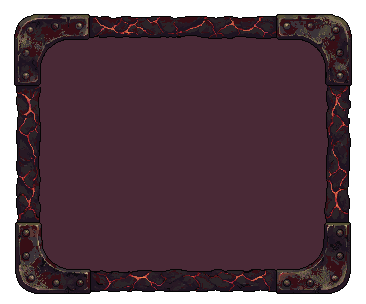
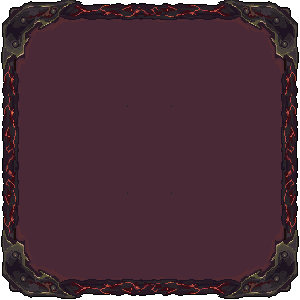
Shroud hides an enemy for real; more call-site text localized; Ashhowl board and card back art
Ash Cloud skips dead cards and bone piles, and hiding a card stops its flip so
the face cannot come back. Floaters, damage labels, the loading bar, the killer
name and merge rarity note go through i18n.

Changed region(s): [[0.0, 0.0, 1.0, 1.0]]

diff --git a/src/i18n/i18n.js b/src/i18n/i18n.js
@@ -3303,6 +3303,100 @@ Object.assign(STRINGS.es, { "ui.carnival.trayHint": "Arrastra una baratija a tu 
 Object.assign(STRINGS.fr, { "ui.carnival.trayHint": "Glissez un bibelot dans votre sac   ·   1 pièce chacun", "ui.carnival.nothingAffordable": "Rien ici n’est dans vos moyens." });
 Object.assign(STRINGS.ru, { "ui.carnival.trayHint": "Перетащите безделушку в сумку   ·   1 монета за штуку", "ui.carnival.nothingAffordable": "Здесь вам ничего не по карману." });
 
+// More text that was English at its call site: floaters, damage labels, the loading bar, names
+// and choice buttons. Found with tools/audit-hardcoded-text.mjs and the code sweep.
+const CALL_SITE_TEXT_2 = {
+    en: {
+        "float.plagueBurst": "Plague Burst!",
+        "float.bonePileFinish": "Bone Pile — finish it!",
+        "float.quickStrike": "Quick Strike!",
+        "float.secondWind": "Second Wind!",
+        "float.heavyCleave": "Heavy Cleave!",
+        "float.apSecondWind": "+{amount} AP (Second Wind)",
+        "float.skeletonSlash": "-{amount} Skeleton Slash",
+        "float.chickZap": "-{amount} Chick Zap",
+        "float.embersDamage": "-{amount} Embers",
+        "float.fireballDamage": "-{amount} Fireball",
+        "float.lightningDamage": "-{amount} Lightning",
+        "float.zapDamage": "-{amount} Zap",
+        "ui.loading.progress": "Loading... {pct}%",
+        "ui.loading.ready": "Ready",
+        "ui.loading.failed": "Files that did not load: {count}",
+        "tooltip.mergeRarity": "rarity {a} vs {b}",
+    },
+    es: {
+        "float.plagueBurst": "¡Estallido de plaga!",
+        "float.bonePileFinish": "Montón de huesos: ¡acaba con él!",
+        "float.quickStrike": "¡Golpe rápido!",
+        "float.secondWind": "¡Segundo aliento!",
+        "float.heavyCleave": "¡Tajo pesado!",
+        "float.apSecondWind": "+{amount} PA (Segundo aliento)",
+        "float.skeletonSlash": "-{amount} Tajo de esqueleto",
+        "float.chickZap": "-{amount} Chispazo del pollito",
+        "float.embersDamage": "-{amount} Brasas",
+        "float.fireballDamage": "-{amount} Bola de fuego",
+        "float.lightningDamage": "-{amount} Rayo",
+        "float.zapDamage": "-{amount} Chispazo",
+        "ui.loading.progress": "Cargando... {pct} %",
+        "ui.loading.ready": "Listo",
+        "ui.loading.failed": "Archivos que no cargaron: {count}",
+        "tooltip.mergeRarity": "rareza {a} contra {b}",
+    },
+    fr: {
+        "float.plagueBurst": "Explosion de peste !",
+        "float.bonePileFinish": "Tas d’os : achevez-le !",
+        "float.quickStrike": "Frappe rapide !",
+        "float.secondWind": "Second souffle !",
+        "float.heavyCleave": "Fendoir lourd !",
+        "float.apSecondWind": "+{amount} PA (Second souffle)",
+        "float.skeletonSlash": "-{amount} Taillade du squelette",
+        "float.chickZap": "-{amount} Décharge du poussin",
+        "float.embersDamage": "-{amount} Braises",
+        "float.fireballDamage": "-{amount} Boule de feu",
+        "float.lightningDamage": "-{amount} Foudre",
+        "float.zapDamage": "-{amount} Décharge",
+        "ui.loading.progress": "Chargement... {pct} %",
+        "ui.loading.ready": "Prêt",
+        "ui.loading.failed": "Fichiers non chargés : {count}",
+        "tooltip.mergeRarity": "rareté {a} contre {b}",
+    },
+    ru: {
+        "float.plagueBurst": "Чумной взрыв!",
+        "float.bonePileFinish": "Груда костей — добейте!",
+        "float.quickStrike": "Быстрый удар!",
+        "float.secondWind": "Второе дыхание!",
+        "float.heavyCleave": "Тяжелое рассечение!",
+        "float.apSecondWind": "+{amount} AP (Второе дыхание)",
+        "float.skeletonSlash": "-{amount} Удар скелета",
+        "float.chickZap": "-{amount} Разряд цыпленка",
+        "float.embersDamage": "-{amount} Угли",
+        "float.fireballDamage": "-{amount} Огненный шар",
+        "float.lightningDamage": "-{amount} Молния",
+        "float.zapDamage": "-{amount} Разряд",
+        "ui.loading.progress": "Загрузка... {pct}%",
+        "ui.loading.ready": "Готово",
+        "ui.loading.failed": "Не загрузились файлы: {count}",
+        "tooltip.mergeRarity": "редкость {a} против {b}",
+    },
+};
+for (const [language, additions] of Object.entries(CALL_SITE_TEXT_2)) Object.assign(STRINGS[language], additions);
+Object.assign(TEXT_ALIASES, {
+    "Plague Burst!": "float.plagueBurst",
+    "Bone Pile — finish it!": "float.bonePileFinish",
+    "Quick Strike!": "float.quickStrike",
+    "Second Wind!": "float.secondWind",
+    "Heavy Cleave!": "float.heavyCleave",
+});
+TEXT_PATTERNS.push(
+    [new RegExp("^\\+(\\d+) AP \\(Second Wind\\)$"), match => ["float.apSecondWind", { amount: match[1] }]],
+    [new RegExp("^-(\\d+) Skeleton Slash$"), match => ["float.skeletonSlash", { amount: match[1] }]],
+    [new RegExp("^-(\\d+) Chick Zap$"), match => ["float.chickZap", { amount: match[1] }]],
+    [new RegExp("^-(\\d+) Embers$"), match => ["float.embersDamage", { amount: match[1] }]],
+    [new RegExp("^-(\\d+) Fireball$"), match => ["float.fireballDamage", { amount: match[1] }]],
+    [new RegExp("^-(\\d+) Lightning$"), match => ["float.lightningDamage", { amount: match[1] }]],
+    [new RegExp("^-(\\d+) Zap$"), match => ["float.zapDamage", { amount: match[1] }]],
+);
+
 const EXACT_NAME_TRANSLATIONS = {
     fr: {
         'Mark of Hesitation': 'Marque d’Hésitation',
@@ -5596,6 +5690,62 @@ Object.assign(EVENT_NARRATIVE_TRANSLATIONS.ru, {
     "You leave the wall alone.": "Вы оставляете стену в покое.",
 });
 // <<< imported stories-runtime-translated.json
+
+// Names, choice buttons and descriptions written straight into code (see CALL_SITE_TEXT_2).
+Object.assign(EXACT_NAME_TRANSLATIONS.es, {
+    "Dungeon Event": "Suceso de la mazmorra",
+    "Exploding Music Box": "Caja de música explosiva",
+    "Rare Thorns": "Espinas raras",
+    "fortune card": "carta de la fortuna",
+    "Angry Nestmother": "Madre del nido furiosa",
+    "Makeshift Weapon": "Arma improvisada",
+});
+Object.assign(EXACT_NAME_TRANSLATIONS.fr, {
+    "Dungeon Event": "Événement du donjon",
+    "Exploding Music Box": "Boîte à musique explosive",
+    "Rare Thorns": "Épines rares",
+    "fortune card": "carte de fortune",
+    "Angry Nestmother": "Mère du nid furieuse",
+    "Makeshift Weapon": "Arme de fortune",
+});
+Object.assign(EXACT_NAME_TRANSLATIONS.ru, {
+    "Dungeon Event": "Событие подземелья",
+    "Exploding Music Box": "Взрывающаяся музыкальная шкатулка",
+    "Rare Thorns": "Редкие шипы",
+    "fortune card": "карта удачи",
+    "Angry Nestmother": "Разгневанная мать гнезда",
+    "Makeshift Weapon": "Самодельное оружие",
+});
+Object.assign(EVENT_NARRATIVE_TRANSLATIONS.es, {
+    "Offer gem": "Ofrecer gema",
+    "Offer card": "Ofrecer carta",
+    "Offer weapon": "Ofrecer arma",
+    "Trade junk": "Cambiar baratijas",
+});
+Object.assign(EVENT_NARRATIVE_TRANSLATIONS.fr, {
+    "Offer gem": "Offrir une gemme",
+    "Offer card": "Offrir une carte",
+    "Offer weapon": "Offrir une arme",
+    "Trade junk": "Échanger le bric-à-brac",
+});
+Object.assign(EVENT_NARRATIVE_TRANSLATIONS.ru, {
+    "Offer gem": "Отдать камень",
+    "Offer card": "Отдать карту",
+    "Offer weapon": "Отдать оружие",
+    "Trade junk": "Обменять хлам",
+});
+Object.assign(DESCRIPTION_TRANSLATIONS.es, {
+    "Cold, and heavier than it looks. Something inside taps back.": "Frío, y más pesado de lo que parece. Algo dentro golpea en respuesta.",
+    "At the start of combat, revealed enemies receive random status effects. Sometimes backfires.": "Al empezar el combate, los enemigos revelados reciben efectos de estado al azar. A veces sale mal.",
+});
+Object.assign(DESCRIPTION_TRANSLATIONS.fr, {
+    "Cold, and heavier than it looks. Something inside taps back.": "Froid, et plus lourd qu’il n’y paraît. À l’intérieur, quelque chose tape en retour.",
+    "At the start of combat, revealed enemies receive random status effects. Sometimes backfires.": "Au début du combat, les ennemis révélés reçoivent des effets d’état aléatoires. Parfois, cela se retourne contre vous.",
+});
+Object.assign(DESCRIPTION_TRANSLATIONS.ru, {
+    "Cold, and heavier than it looks. Something inside taps back.": "Холодное и тяжелее, чем кажется. Внутри что-то стучит в ответ.",
+    "At the start of combat, revealed enemies receive random status effects. Sometimes backfires.": "В начале боя открытые враги получают случайные эффекты. Иногда это оборачивается против вас.",
+});
 
 const TOLLROAD_STORY_STRINGS = {
     "en": {

diff --git a/src/systems/inventory/InventoryCombatUse.js b/src/systems/inventory/InventoryCombatUse.js
@@ -327,20 +327,11 @@ export const InventoryCombatUse = {
                 // Boss is intentionally excluded — it cannot be hidden.
                 let flippedAny = false;
                 this.scene.cardSystem.boardCards.forEach((card, idx) => {
-                    if (card?.revealed && this.isEnemyBoardCard(card, false)) {
-                        card.revealed = false;
-                        card.sprite.setTexture('cardBack');
-                        // Rebind click so the player can re-reveal this card normally.
-                        // (After reveal the handler was swapped to interactWithCard,
-                        // which silently returns when card.revealed is false.)
-                        card.sprite.off('pointerdown');
-                        card.sprite.on('pointerdown', () => this.scene.cardSystem.revealCard(idx));
-                        // Destroy role/poison markers — they will be recreated on re-reveal.
-                        if (card.roleMarker) { card.roleMarker.destroy(); card.roleMarker = null; }
-                        if (card.poisonMarker) { card.poisonMarker.destroy(); card.poisonMarker = null; }
-                        if (card.shockMarker) { card.shockMarker.destroy(); card.shockMarker = null; }
-                        this.scene.cardSystem.destroyCardInfoText?.(card);
-                        this.scene.cardSystem.syncControlMarkers?.(card);
+                    // The same flip back as the Ash Cloud sigil (BoardCombat.hideEnemyCard): the
+                    // location's card back, the click rebound to reveal, the markers cleared, and
+                    // a flip still running stopped so it cannot put the face back.
+                    if (card?.revealed && this.isEnemyBoardCard(card, false)
+                        && this.scene.cardSystem.hideEnemyCard(idx)) {
                         flippedAny = true;
                     }
                 });

diff --git a/src/systems/inventory/InventoryView.js b/src/systems/inventory/InventoryView.js
@@ -7,7 +7,7 @@ import { setHoverLight } from '../../ui/HoverLight.js';
 import { DISCARD_X } from '../../ui/CombatHud.js';
 import { CardDataGenerator } from '../loot/CardDataGenerator.js';
 import { getDisplayedWeaponDamage } from '../../content/characters/CharacterClasses.js';
-import { t, translateDescription, translateGemEffect, translateItemName, tCount } from '../../i18n/i18n.js';
+import { t, translateDescription, translateGemEffect, translateItemName, translateRarity, tCount } from '../../i18n/i18n.js';
 import { describeWeaponEnchant } from '../../content/balance/WeaponEnchants.js';
 import { effectiveArmorProtection } from '../combat/ArmorMath.js';
 import { handLockOf } from '../../content/combat/handLock.js';
@@ -1447,7 +1447,11 @@ export const InventoryView = {
         if (cardA.type === 'magic' || cardB.type === 'magic') return translateDescription(this.scene, 'magic cards cannot merge');
         if (cardA.type === 'gem' || cardB.type === 'gem') return translateDescription(this.scene, 'gems socket into weapons');
         if (this.getMergeKey(cardA) !== this.getMergeKey(cardB)) return translateDescription(this.scene, 'different family');
-        if (cardA.rarity !== cardB.rarity) return `rarity ${cardA.rarity || '?'} vs ${cardB.rarity || '?'}`;
+        if (cardA.rarity !== cardB.rarity) {
+            return t(this.scene, 'tooltip.mergeRarity', {
+                a: translateRarity(this.scene, cardA.rarity, '?'), b: translateRarity(this.scene, cardB.rarity, '?'),
+            });
+        }
         if (this.getMergeStatsKey(cardA) !== this.getMergeStatsKey(cardB)) return translateDescription(this.scene, 'stats/effect differ');
         return '';
     },

diff --git a/src/systems/board/BoardCombat.js b/src/systems/board/BoardCombat.js
@@ -1289,7 +1289,9 @@ function applyWeaponEnchantOnKill(enchantId) {
     // attacker, so this buys a turn exactly like the Smoke Screen card does.
     const candidates = this.boardCards
         .map((card, index) => ({ card, index }))
-        .filter(({ card }) => this.isOpenEnemyCard(card) && card.data?.type !== 'boss');
+        // Never the enemy this kill just felled (it is still on the board, at 0 HP), nor a bone pile.
+        .filter(({ card }) => this.isOpenEnemyCard(card) && card.data?.type !== 'boss'
+            && (card.data?.health || 0) > 0 && !card.data?.isBonePile);
     if (candidates.length === 0) return;
     const pick = candidates[Math.floor(Math.random() * candidates.length)];
     const hiddenX = pick.card?.sprite?.x ?? 320;
@@ -1316,6 +1318,15 @@ function hideEnemyCard(index) {
     if (!this.isOpenEnemyCard(card)) return false;
 
     card.revealed = false;
+    // A card turned face-up a moment ago may still be playing its flip. Left running, the flip
+    // ends by putting the enemy's face back on a card that is hidden: it shows, but it cannot be
+    // attacked or clicked open (Ash Cloud, Shrouded!). Stop it, and anything moving the card.
+    card.sprite.stop?.();
+    card.sprite.off('animationcomplete');
+    this.scene.tweens.killTweensOf(card.sprite);
+    if (Number.isFinite(card.restX)) card.sprite.x = card.restX;
+    if (Number.isFinite(card.restY)) card.sprite.y = card.restY;
+    card.justRevealed = false;
     card.sprite.setTexture(this._cardBackKey());
     card.sprite.off('pointerdown');
     card.sprite.on('pointerdown', () => this.revealCard(index));

diff --git a/src/ui/RunResultOverlay.js b/src/ui/RunResultOverlay.js
@@ -1,7 +1,7 @@
 // Defeat / victory result overlays for GameScene.
 import { MusicManager } from '../audio/MusicManager.js';
 import { SoundHelper } from '../audio/SoundHelper.js';
-import { t } from '../i18n/i18n.js';
+import { t, translateItemName } from '../i18n/i18n.js';
 import { OptionsSkin, UI_BUTTON } from './OptionsSkin.js';
 
 export function showDefeatFallback(scene, deathStats) {
@@ -14,7 +14,7 @@ export function showDefeatFallback(scene, deathStats) {
         fill: '#fef0cf',
         fontFamily: 'Arial, sans-serif'
     }).setOrigin(0.5).setDepth(depth + 1);
-    scene.add.text(320, 160, `${t(scene, 'ui.result.killedBy', { enemy: deathStats.killedBy })}\n${t(scene, 'ui.result.reachedFloor', { floor: deathStats.floor })}`, {
+    scene.add.text(320, 160, `${t(scene, 'ui.result.killedBy', { enemy: translateItemName(scene, deathStats.killedBy) })}\n${t(scene, 'ui.result.reachedFloor', { floor: deathStats.floor })}`, {
         fontSize: '16px',
         fill: '#d6c2c1',
         fontFamily: 'Arial, sans-serif',
@@ -79,7 +79,7 @@ export function showDefeatResult(scene, deathStats, xpResult) {
         fill: '#fef0cf',
         fontFamily: '"HoMM Pixel", Arial, sans-serif'
     }).setOrigin(0.5).setDepth(resultDepth + 2);
-    scene.add.text(320, 116, t(scene, 'ui.result.killedBy', { enemy: deathStats.killedBy }), {
+    scene.add.text(320, 116, t(scene, 'ui.result.killedBy', { enemy: translateItemName(scene, deathStats.killedBy) }), {
         fontSize: '14px',
         fill: '#d6c2c1',
         fontFamily: '"HoMM Pixel", Arial, sans-serif'

diff --git a/src/scenes/PreloadScene.js b/src/scenes/PreloadScene.js
@@ -1,4 +1,5 @@
 import { loadAssetManifest } from '../content/assets/AssetManifest.js';
+import { t } from '../i18n/i18n.js';
 import { splitItemSheets } from '../content/assets/itemSheets.js';
 import { fontFamily } from '../ui/fontFamilies.js';
 import { PIXEL_SCALE } from '../config/renderScale.js';
@@ -61,7 +62,7 @@ export class PreloadScene extends Phaser.Scene {
         this.load.on('progress', (value) => {
             const pct = Math.round(value * 100);
             if (fill) fill.style.width = `${pct}%`;
-            if (status) status.textContent = `Loading... ${pct}%`;
+            if (status) status.textContent = t(this, 'ui.loading.progress', { pct });
         });
 
         // itch.io has served 403s for individual files before (see the note in
@@ -71,12 +72,12 @@ export class PreloadScene extends Phaser.Scene {
         let failed = 0;
         this.load.on('loaderror', () => {
             failed += 1;
-            if (errors) errors.textContent = `${failed} file${failed === 1 ? '' : 's'} failed to load`;
+            if (errors) errors.textContent = t(this, 'ui.loading.failed', { count: failed });
         });
 
         this.load.on('complete', () => {
             if (fill) fill.style.width = '100%';
-            if (status) status.textContent = 'Ready';
+            if (status) status.textContent = t(this, 'ui.loading.ready');
         });
     }
 
